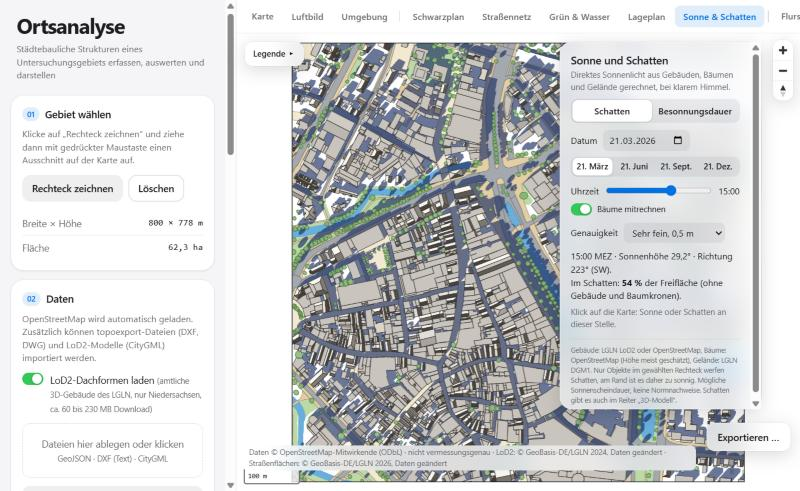
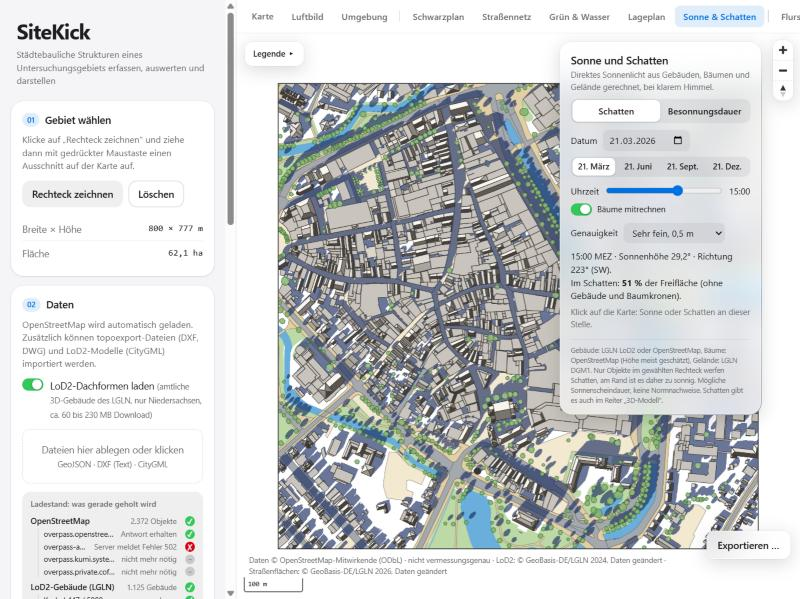
Tool in SiteKick umbenannt, Bilder neu aufgenommen
- Name SiteKick in Titel, Überschrift, Dateiköpfen, Export-Dateinamen, Plankopf,
  README, CLAUDE.md, PLAN.md, UEBERGABE.md, Start.bat und server.py
- Browser-Speicherschlüssel (ortsanalyse-*) und Repository-Name bleiben unverändert
- alle Screenshots in docs/bilder mit dem neuen Namen neu aufgenommen
- Quellenzeile über den Plänen deckend, damit sie im Dunkelmodus lesbar bleibt

diff --git a/export.js b/export.js
@@ -1,5 +1,5 @@
 /* ============================================================
-   Ortsanalyse – Export der Pläne (Reiter Schwarzplan, Straßennetz, Grün & Wasser, Lageplan)
+   SiteKick – Export der Pläne (Reiter Schwarzplan, Straßennetz, Grün & Wasser, Lageplan)
 
    Ein Klick auf „Exportieren …“ öffnet ein Fenster mit Vorschau. Dort wählt man Format (A4 bis A0), Maßstab und Beschriftung des Plankopfs
    und speichert den Plan als PDF (Vektor), PNG (Pixel, 150 oder 300 dpi), SVG (Vektor) oder DXF für CAD (Allplan 2024, ArchiCAD 29).
@@ -736,7 +736,7 @@ function expDxf(szene, opt, voreinstellung) {
   const einfach = (s) => s.replace(/©/g, "(c)").replace(/·/g, "-");
   const breiteZeichen = Math.max(40, Math.floor((szene.xmax - szene.xmin) / (th * 0.62)));   // Zeilenlänge so, dass der Text nicht breiter als der Plan wird
   const zeilen = [
-    ...expUmbruch(`${opt.titel || EXP_PLAENE[szene.ansicht].name} - Ortsanalyse, Stand ${opt.datum}` + (szene.ansicht === "sonne" ? " (Schatten und Besonnung nur in PDF, PNG und SVG)" : ""), 10, false, 1e6),
+    ...expUmbruch(`${opt.titel || EXP_PLAENE[szene.ansicht].name} - SiteKick, Stand ${opt.datum}` + (szene.ansicht === "sonne" ? " (Schatten und Besonnung nur in PDF, PNG und SVG)" : ""), 10, false, 1e6),
     ...expUmbruch(`Einheit Meter, 1 Einheit = 1 m. ETRS89 / UTM 32 (EPSG:25832).` + (archicad ? ` Lokaler Nullpunkt = E ${E0} N ${N0} (Bezugskoordinaten, UTM minus Nullpunkt).` : " Absolute UTM-Koordinaten."), 10, false, 1e6),
     ...expUmbruchZeichen(einfach(`Quellen: ${expQuellen()}`), breiteZeichen)
   ];
@@ -751,7 +751,7 @@ function expDxf(szene, opt, voreinstellung) {
 
 // ---------- 7. Fenster ----------
 function expDateiname(ansicht, opt, ende) {
-  return `Ortsanalyse-${EXP_PLAENE[ansicht].datei}-1zu${opt.massstab}.${ende}`;
+  return `SiteKick-${EXP_PLAENE[ansicht].datei}-1zu${opt.massstab}.${ende}`;
 }
 function expHerunterladen(blob, name) {
   const a = document.createElement("a");
@@ -946,7 +946,7 @@ function expDxf3d(opt, voreinstellung) {
   paar(0, "POLYLINE"); paar(8, "GEBIETSRAHMEN"); paar(66, 1); paar(70, 1);
   for (const p of r.ecken) { paar(0, "VERTEX"); paar(8, "GEBIETSRAHMEN"); paar(10, dxfZ(p[0] - E0)); paar(20, dxfZ(p[1] - N0)); paar(30, "0.0"); }
   paar(0, "SEQEND"); paar(8, "GEBIETSRAHMEN");
-  const zeilen = [`3D-Modell - Ortsanalyse, Stand ${opt.datum}`, `Einheit Meter. ETRS89 / UTM 32 (EPSG:25832), Hoehen ueber NHN.` + (archicad ? ` Lokaler Nullpunkt = E ${E0} N ${N0} (nur Lage, Hoehen unveraendert).` : " Absolute UTM-Koordinaten."),
+  const zeilen = [`3D-Modell - SiteKick, Stand ${opt.datum}`, `Einheit Meter. ETRS89 / UTM 32 (EPSG:25832), Hoehen ueber NHN.` + (archicad ? ` Lokaler Nullpunkt = E ${E0} N ${N0} (nur Lage, Hoehen unveraendert).` : " Absolute UTM-Koordinaten."),
     ...expUmbruchZeichen(`Quellen: ${expQuellen()}`.replace(/©/g, "(c)").replace(/·/g, "-"), 110)];
   zeilen.forEach((s, i) => { paar(0, "TEXT"); paar(8, "BESCHRIFTUNG"); paar(10, dxfZ(r.xmin - E0)); paar(20, dxfZ(r.ymin - N0 - 12 - i * 5)); paar(30, "0.0"); paar(40, "3.0"); paar(1, dxfTxt(s)); });
   const kopf = ["0\nSECTION\n2\nHEADER\n9\n$ACADVER\n1\nAC1009\n0\nENDSEC",
@@ -983,7 +983,7 @@ function expKennzahlenPdf(opt) {
     doc.setFont("helvetica", fett ? "bold" : "normal"); doc.setFontSize(pt); doc.setTextColor(...expFarbe(farbe || "#000"));
     for (const z of doc.splitTextToSize(text, 170 - einzug)) { if (y > 277) seite(); doc.text(z, 20 + einzug, y); y += abstand; }
   };
-  zeile(`Kennzahlen – ${opt.titel || "Ortsanalyse"}`, 16, true, "#000", 0, 8);
+  zeile(`Kennzahlen – ${opt.titel || "SiteKick"}`, 16, true, "#000", 0, 8);
   zeile(`${opt.untertitel}   ·   Stand ${opt.datum}${opt.verfasser ? "   ·   " + opt.verfasser : ""}${opt.kurs ? "   ·   " + opt.kurs : ""}`, 8.5, false, "#444", 0, 7);
   let letzter = null;
   for (const r of reihen) {
@@ -1079,7 +1079,7 @@ async function expSpeichern(ziel) {
   exEl.status.textContent = "Wird erstellt …";
   await new Promise((r) => setTimeout(r, 30));
   try {
-    const name = (ende, zusatz = "") => `Ortsanalyse-${EXP_PLAENE[ansicht].datei}${EXP_PLAENE[ansicht].art === "bild3d" || EXP_PLAENE[ansicht].art === "text" ? "" : "-1zu" + opt.massstab}${zusatz}.${ende}`;
+    const name = (ende, zusatz = "") => `SiteKick-${EXP_PLAENE[ansicht].datei}${EXP_PLAENE[ansicht].art === "bild3d" || EXP_PLAENE[ansicht].art === "text" ? "" : "-1zu" + opt.massstab}${zusatz}.${ende}`;
     if (ziel === "svg") {
       const b = expSvg(lay.w, lay.h); expZeichne(b, opt, exSzene, lay);
       expHerunterladen(new Blob([b.ergebnis(false)], { type: "image/svg+xml" }), name("svg"));
@@ -1105,7 +1105,7 @@ async function expSpeichern(ziel) {
     } else if (ziel === "dxf-schnitt") {
       expHerunterladen(new Blob([baueDxf(schnittDaten)], { type: "application/dxf" }), name("dxf", "-CAD").replace(/-1zu\d+/, ""));
     } else if (ziel === "geojson") {
-      const fc = { type: "FeatureCollection", name: `Ortsanalyse ${EXP_PLAENE[ansicht].name}`, quellen: expQuellen(), features: exSzene.geo };
+      const fc = { type: "FeatureCollection", name: `SiteKick ${EXP_PLAENE[ansicht].name}`, quellen: expQuellen(), features: exSzene.geo };
       expHerunterladen(new Blob([JSON.stringify(fc)], { type: "application/geo+json" }), name("geojson").replace(/-1zu\d+/, ""));
     } else if (ziel === "csv") {
       expHerunterladen(new Blob([expCsvTabelle(ansicht)], { type: "text/csv;charset=utf-8" }), name("csv").replace(/-1zu\d+/, ""));

diff --git a/ansicht3d.js b/ansicht3d.js
@@ -1,5 +1,5 @@
 /* ============================================================
-   Ortsanalyse – 3D-Ansicht (three.js)
+   SiteKick – 3D-Ansicht (three.js)
 
    Zeigt das gewählte Gebiet als drehbares 3D-Modell:
    - Gebäude aus den amtlichen LoD2-Daten mit echten Wänden und Dachflächen
@@ -493,7 +493,7 @@ function d3Baue() {
   if (alkisVorhanden) quellen.push(alkisQuelle);
   if (gelaende) quellen.push(gelaendeQuelle);
   d3Info.textContent = teile.join(" · ") + " · " + quellen.join(" · ") + " · nicht vermessungsgenau";
-  d3.quellenText = "Ortsanalyse 3D · " + quellen.join(" · ") + " · nicht vermessungsgenau";
+  d3.quellenText = "SiteKick 3D · " + quellen.join(" · ") + " · nicht vermessungsgenau";
 
   d3SetzeAnsicht("schraeg");
   d3SonneAnwenden();
@@ -598,7 +598,7 @@ function d3SpeichereBild() {
   bild.toBlob((blob) => {
     const verweis = document.createElement("a");
     verweis.href = URL.createObjectURL(blob);
-    verweis.download = "Ortsanalyse-3D.png";
+    verweis.download = "SiteKick-3D.png";
     verweis.click();
     setTimeout(() => URL.revokeObjectURL(verweis.href), 2000);
   });

diff --git a/schnitt.js b/schnitt.js
@@ -1,5 +1,5 @@
 /* ============================================================
-   Ortsanalyse – Schnitt und Straßenansicht (Reiter "Schnitt")
+   SiteKick – Schnitt und Straßenansicht (Reiter "Schnitt")
 
    Man zieht eine gerade Linie über die Karte. Daraus entsteht eine Zeichnung entlang dieser Linie (Maße in Metern, 1:1):
 
@@ -1036,7 +1036,7 @@ sEl.dxf.addEventListener("click", () => {
   const blob = new Blob([inhalt], { type: "application/dxf" });
   const a = document.createElement("a");
   a.href = URL.createObjectURL(blob);
-  a.download = `ortsanalyse-${schnittModus === "schnitt" ? "schnitt" : "ansicht"}.dxf`;
+  a.download = `sitekick-${schnittModus === "schnitt" ? "schnitt" : "ansicht"}.dxf`;
   document.body.appendChild(a);
   a.click();
   a.remove();

diff --git a/index.html b/index.html
@@ -3,7 +3,7 @@
 <head>
   <meta charset="utf-8">
   <meta name="viewport" content="width=device-width, initial-scale=1">
-  <title>Ortsanalyse</title>
+  <title>SiteKick</title>
   <meta name="description" content="Städtebauliche Ortsanalyse: Schwarzplan, Straßennetz, Grün, Lageplan und 3D-Modell für ein frei gewähltes Gebiet.">
 
   <!-- Karten-Bibliothek (MapLibre) und Rechen-Bibliothek (Turf) aus dem Internet laden -->
@@ -23,7 +23,7 @@
     <!-- ===== Seitenleiste links: Arbeitsschritte ===== -->
     <aside class="sidebar">
       <header class="brand">
-        <h1>Ortsanalyse</h1>
+        <h1>SiteKick</h1>
         <p class="subtitle">Städtebauliche Strukturen eines Untersuchungsgebiets erfassen, auswerten und darstellen</p>
       </header>
 

diff --git a/style.css b/style.css
@@ -1,5 +1,5 @@
 /*
-  Ortsanalyse – Gestaltung nach Apple-Art
+  SiteKick – Gestaltung nach Apple-Art
   Grundsätze: sofortige Rückmeldung beim Drücken, weiche Bewegungen ohne Federn-Überschwingen,
   milchig-durchsichtige Leisten und Fenster (Material), runde Ecken, Systemschrift,
   Hell- und Dunkelmodus nach Systemeinstellung. Pläne, Exporte und Karte bleiben hell und streng.
@@ -508,7 +508,7 @@ input[type="number"]:focus, input[type="text"]:focus, input[type="date"]:focus, 
   z-index: 2;
   font-size: 11px;
   color: var(--ink-soft);
-  background: var(--glass);
+  background: var(--glass-solid);   /* deckend, damit der Text auch auf weißen Plänen lesbar bleibt */
   border-radius: var(--r-s);
   padding: 2px 8px;
   pointer-events: none;

diff --git a/app.js b/app.js
@@ -1,5 +1,5 @@
 /* ============================================================
-   Ortsanalyse – Logik
+   SiteKick – Logik
    1. Karte von Oldenburg anzeigen (schwarz-weiß)
    2. Rechteck aufziehen und Größe anzeigen
    3. Reiter (Tabs) für die Ansichten umschalten
@@ -1505,7 +1505,7 @@ function kennzahlenAlsHtml(k, abschnitte) {
 }
 
 function kennzahlenAlsText(k, abschnitte) {
-  const zeilen = ["Ortsanalyse – Kennzahlen", ""];
+  const zeilen = ["SiteKick – Kennzahlen", ""];
   for (const a of abschnitte) {
     zeilen.push(a.titel.toUpperCase());
     (a.zeilen || []).forEach((z) => zeilen.push(`${z[0]}: ${z[1]}`));

diff --git a/ladeleiste.js b/ladeleiste.js
@@ -1,5 +1,5 @@
 /* ============================================================
-   Ortsanalyse – Ladestand
+   SiteKick – Ladestand
    Beim Klick auf "Analysieren" laden vier Quellen gleichzeitig: OpenStreetMap, LoD2-Gebäude, amtliche Straßenflächen
    und das Gelände. Der Ladestand in der Seitenleiste zeigt für jede Quelle, ob sie wartet, lädt, fertig ist oder
    fehlgeschlagen ist, und darunter, was genau geholt wird: welche LoD2- und Geländekacheln, welche Abfragen, welche Server.

diff --git a/hoehe.js b/hoehe.js
@@ -1,5 +1,5 @@
 /* ============================================================
-   Ortsanalyse – Schwarzplan nach Gebäudehöhe (Schalter im Reiter "Schwarzplan")
+   SiteKick – Schwarzplan nach Gebäudehöhe (Schalter im Reiter "Schwarzplan")
 
    Zwei Darstellungen: "Schwarz" (wie bisher) und "Nach Höhe" (fünf Grautöne von hell = niedrig bis schwarz = hoch).
    Höhe je Gebäude: LoD2 (gemessene Gebäudehöhe), sonst OSM-Höhe, sonst Geschosszahl mal 3 m, sonst eine Annahme.

diff --git a/projekt.js b/projekt.js
@@ -1,5 +1,5 @@
 /* ============================================================
-   Ortsanalyse – Projekt im Browser merken
+   SiteKick – Projekt im Browser merken
 
    Das Tool merkt sich automatisch den letzten Stand in diesem Browser (localStorage): das gewählte Gebiet, den offenen Reiter und die Einstellungen
    (Sonne, Einfärbungen, Luftbild, Gehzeit-Kreise, Schnittlinien, LoD2 an/aus). Die Geodaten selbst werden NICHT gespeichert, sie werden beim

diff --git a/mieten.js b/mieten.js
@@ -1,5 +1,5 @@
 /* ============================================================
-   Ortsanalyse – Mietpreise (Zensus 2022, 100-m-Raster)
+   SiteKick – Mietpreise (Zensus 2022, 100-m-Raster)
 
    Der Zensus 2022 (Volkszählung der Statistischen Ämter) hat für jede Rasterzelle von 100 × 100 m die durchschnittliche
    Nettokaltmiete je m² ermittelt, dazu Einwohner, Wohnungsgröße, Eigentümer- und Leerstandsquote. Die Daten stehen unter

diff --git a/erreichbar.js b/erreichbar.js
@@ -1,5 +1,5 @@
 /* ============================================================
-   Ortsanalyse – Erreichbarkeit zu Fuß (im Reiter "Umgebung")
+   SiteKick – Erreichbarkeit zu Fuß (im Reiter "Umgebung")
 
    Man wählt einen Mittelpunkt (Klick auf die Karte) und bekommt Kreise für 5, 10 und 15 Minuten Gehzeit.
    Rechnung: Luftlinie, 80 Meter je Minute (4,8 km/h). Das ist eine Annahme und KEIN Wegenetz: Umwege, Gebäude, Bahnlinien und

diff --git a/wirtschaft.js b/wirtschaft.js
@@ -1,5 +1,5 @@
 /* ============================================================
-   Ortsanalyse – Wirtschaftlichkeit (Reiter "Wirtschaftlichkeit")
+   SiteKick – Wirtschaftlichkeit (Reiter "Wirtschaftlichkeit")
 
    Eine Flurstückskarte, in der man ein Flurstück anklickt und alles Wichtige kompakt sieht (Steckbrief mit Luftbild-Ausschnitt,
    Fläche, Bodenrichtwert, Bestand, Miete) und darunter eine Wirtschaftlichkeitsrechnung bekommt:
